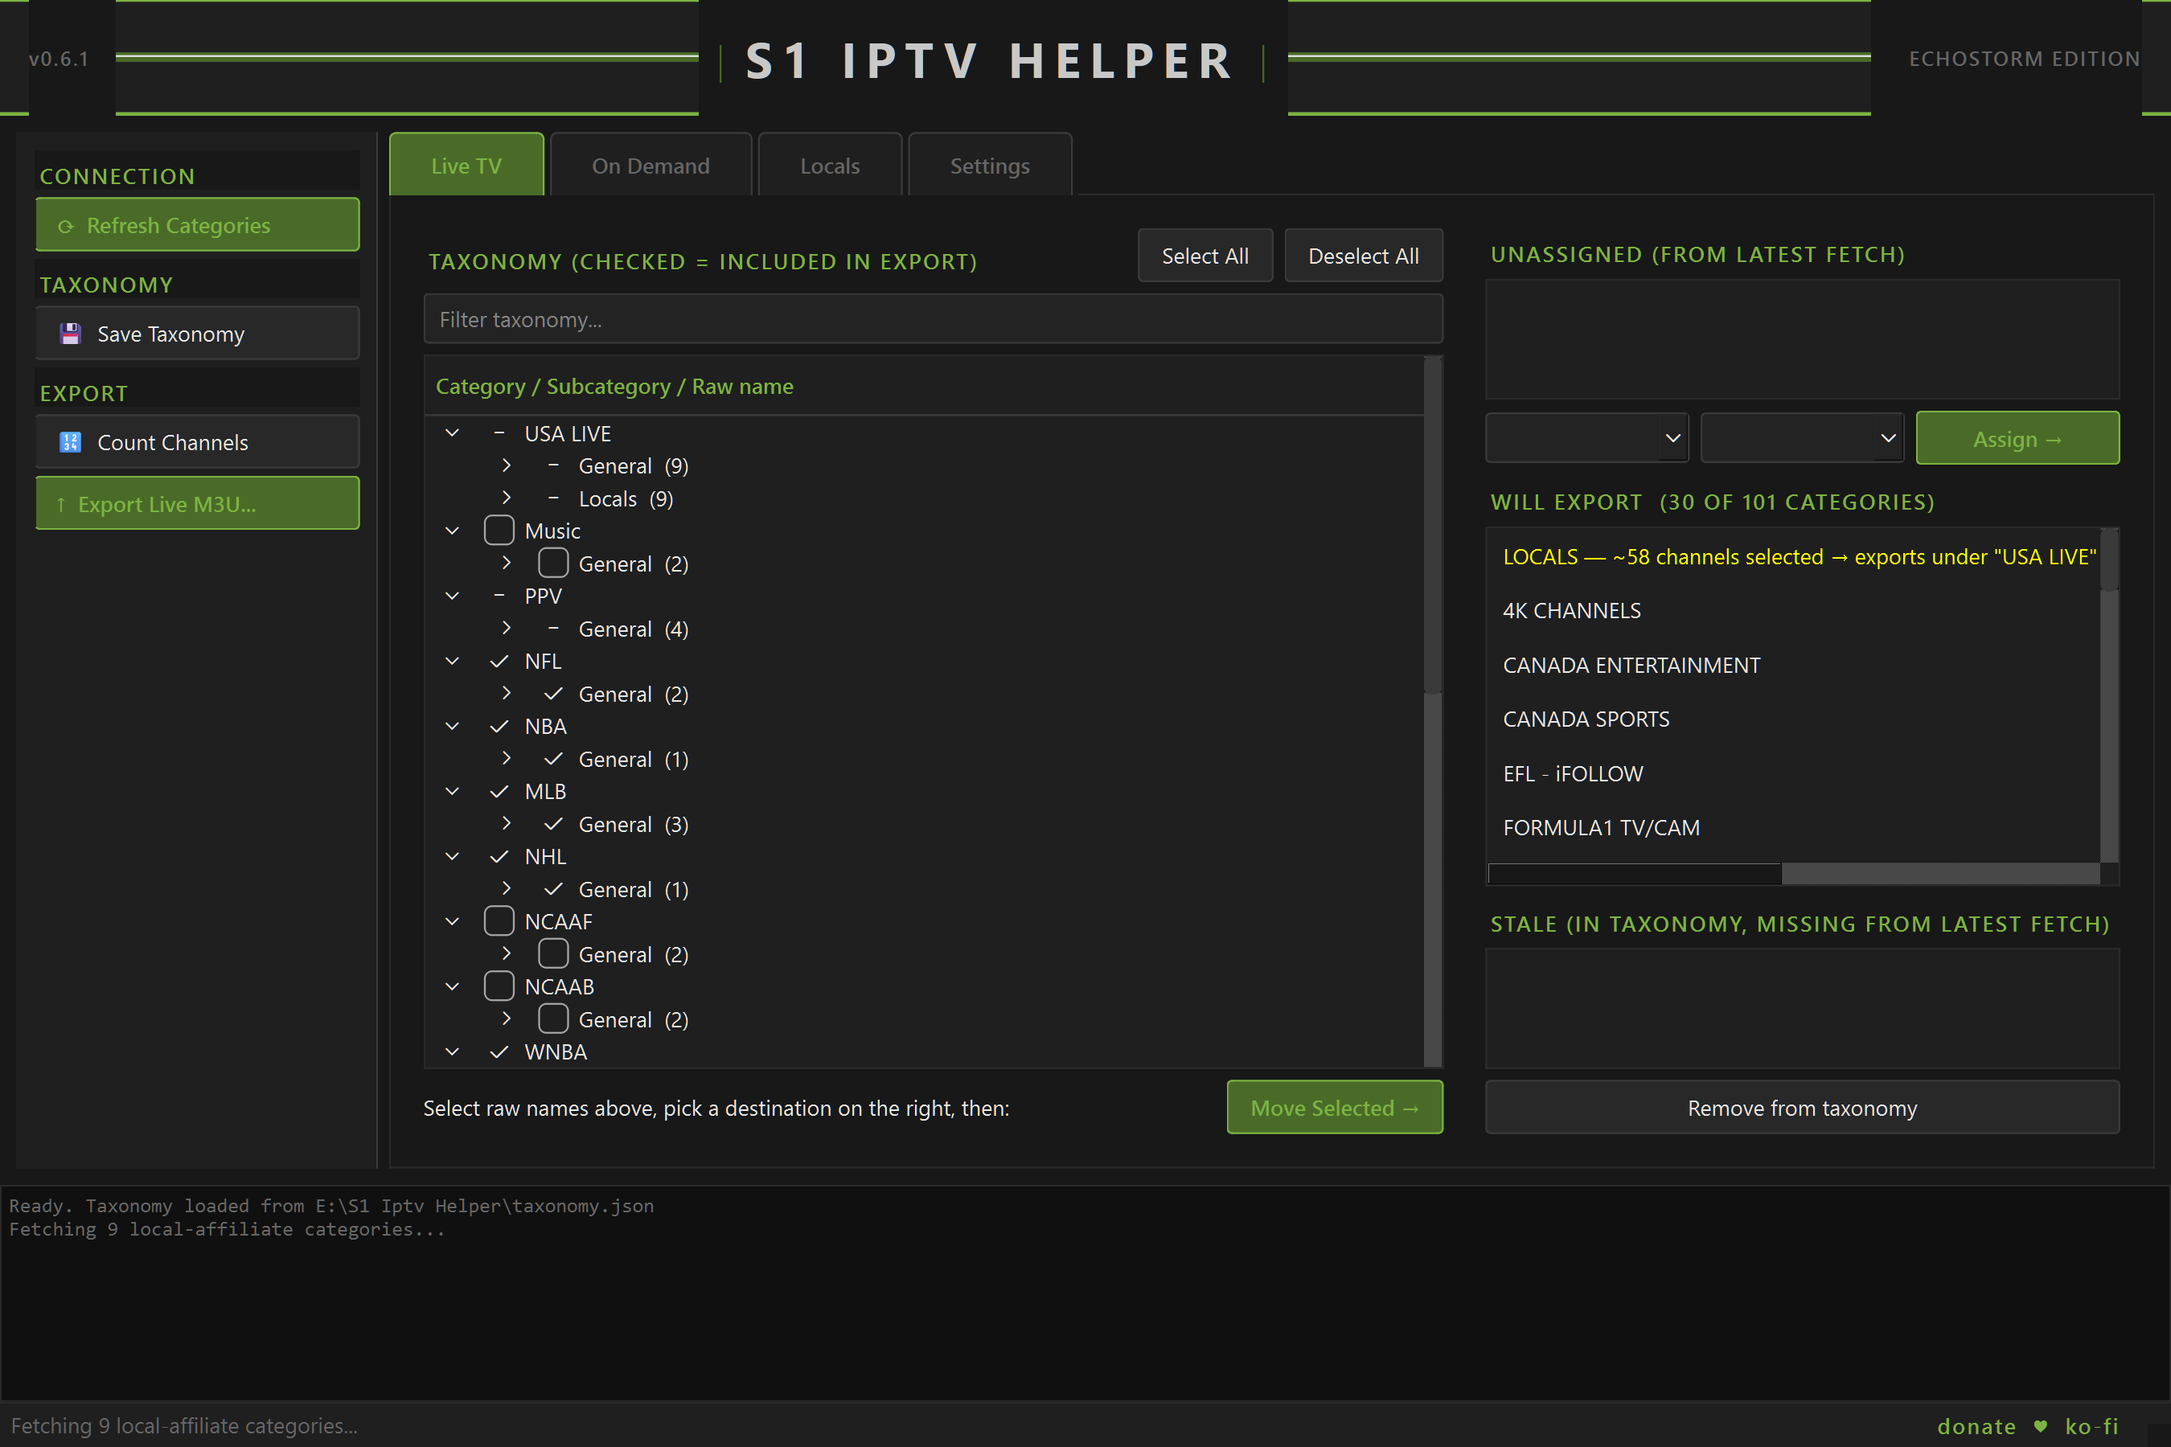
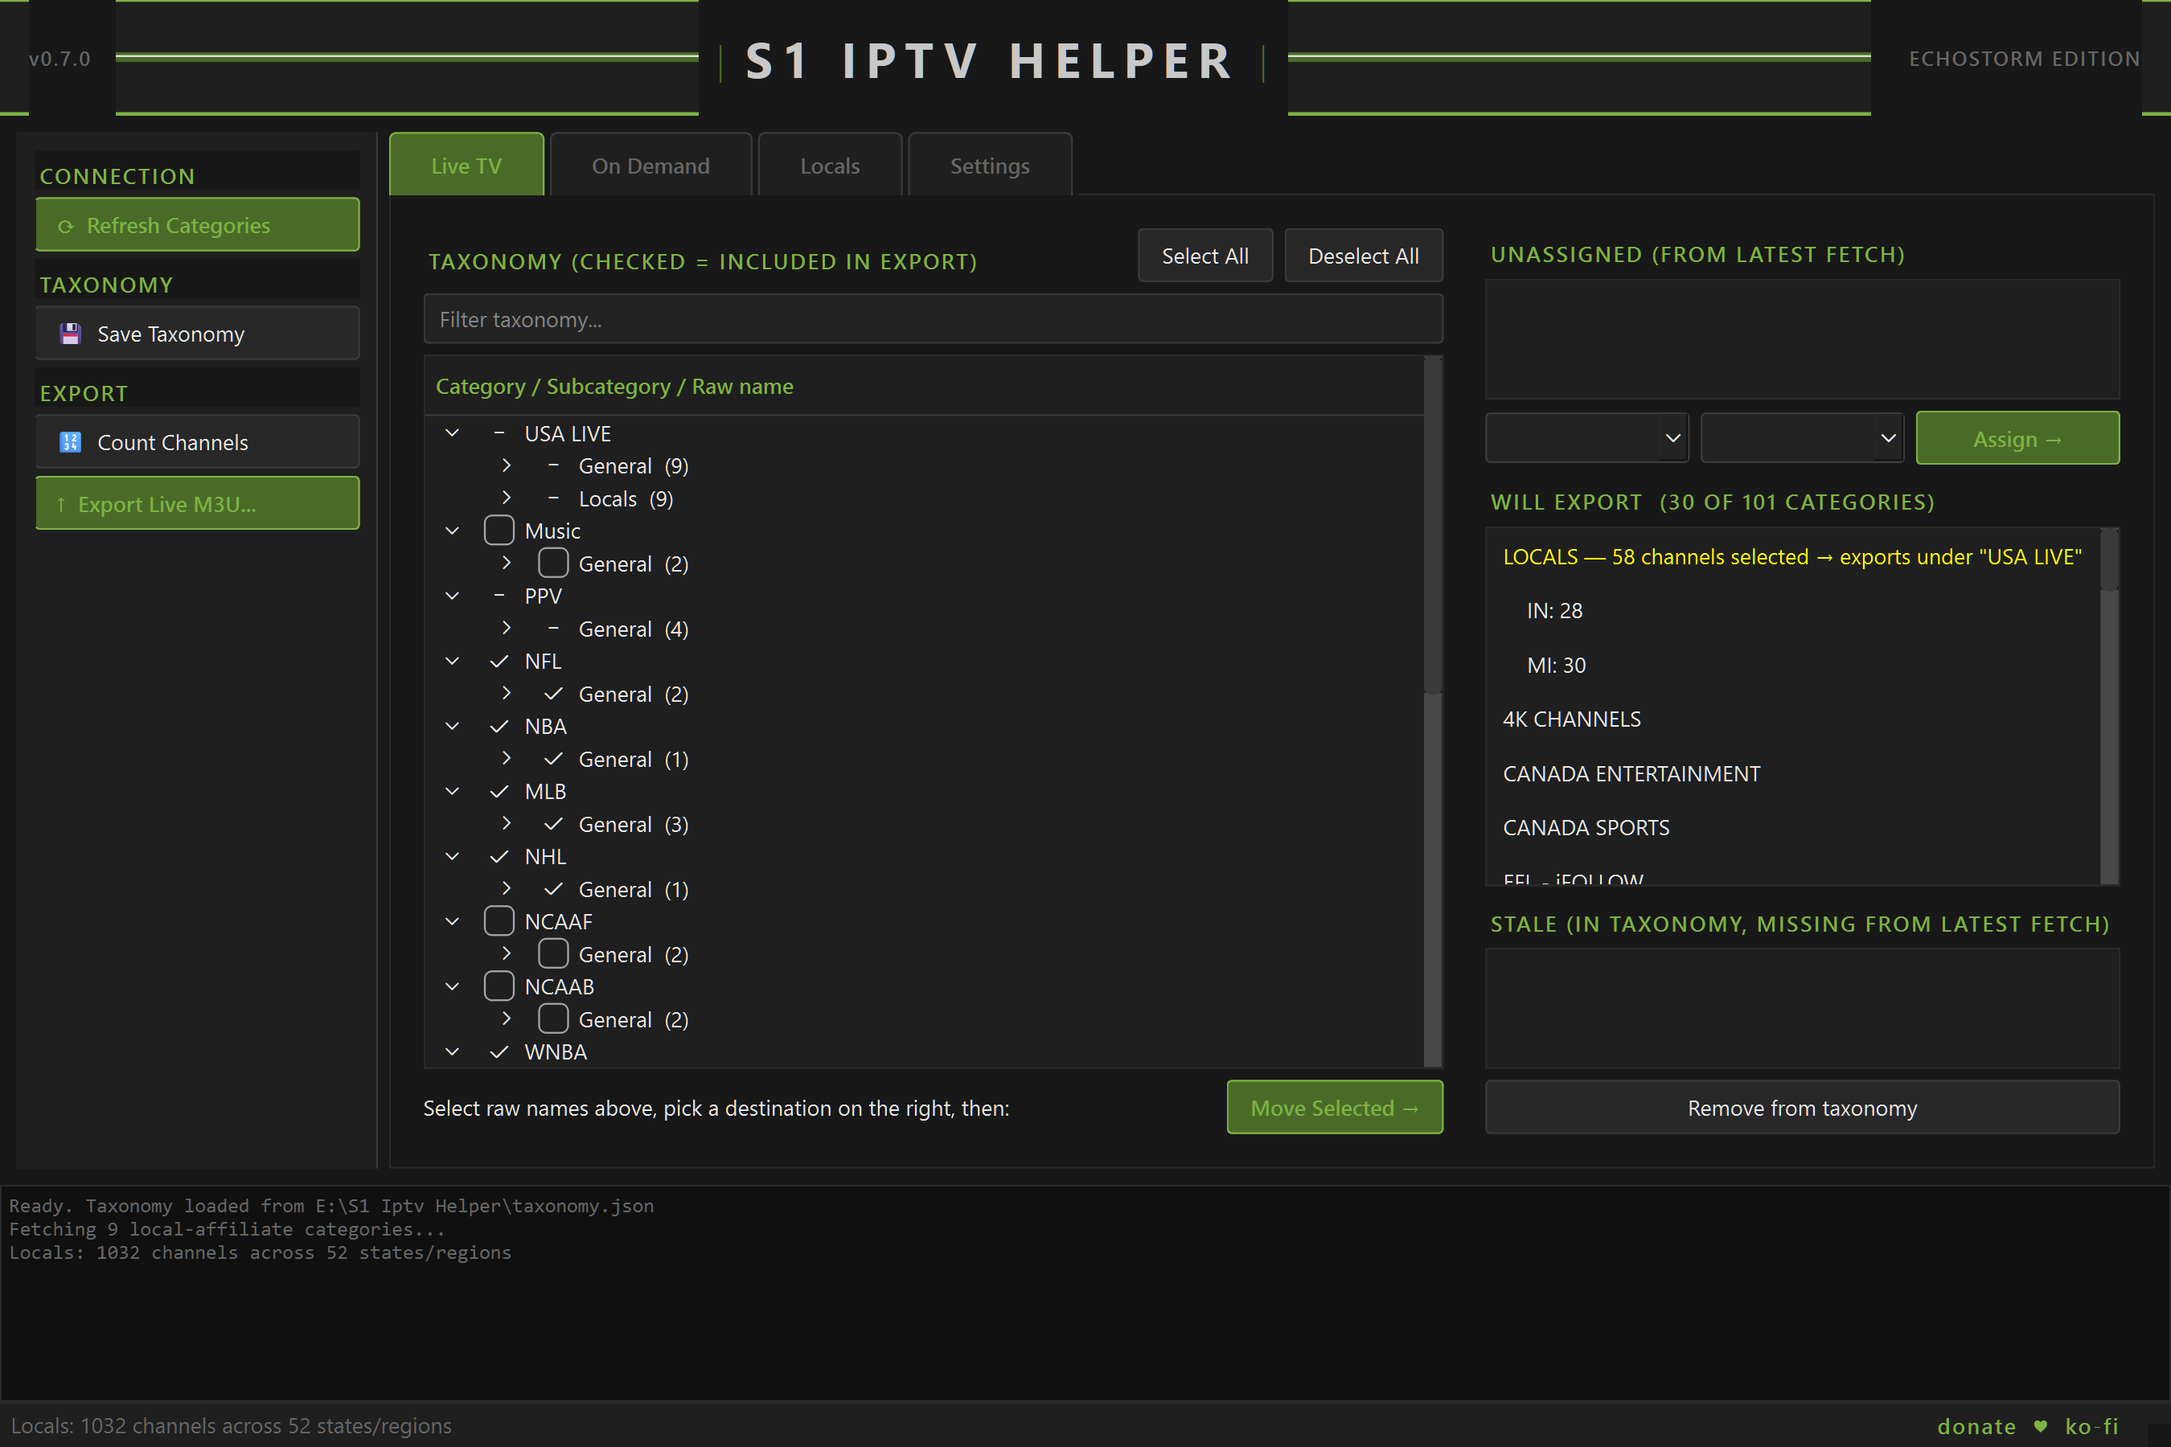
v0.7.0: Windows exe packaging via PyInstaller, first release
Added run_s1_iptv_helper.py (a thin PyInstaller entry point --
s1iptv/main.py can't be that entry point itself since it uses relative
imports that only resolve when imported normally as part of the
package, not executed directly as __main__) and S1IptvHelper.spec
(onedir build, matching EchoAudioConverter.spec's approach), bundling
data/taxonomy.seed.json and the two spinbox arrow PNGs via explicit
datas entries.

Found and fixed a real bug before it ever shipped: every module that
computed "the app's root directory" (category_store.py, export.py,
export_selection.py, locals_data.py, logger.py, xtream_client.py) did
it independently via __file__-relative resolution. Correct from
source, but in a frozen build __file__ resolves inside PyInstaller's
_internal\ extraction folder, not next to the real .exe -- personal
data (config.json, taxonomy.json, the log, backups) would have landed
in _internal\ instead of next to the exe where a user would look for
it. Caught by actually building and running the exe and checking where
the files landed, not by reasoning about the code alone. Fixed with
one shared s1iptv/paths.py::app_root() (checks sys.frozen/
sys.executable), replacing all 6 independent copies -- matches Echo
Audio Converter's own core/paths.py, which solves the identical
problem the identical way. Verified end to end.

Also fixed load_config()'s "no config.json" error message, which told
every reader to copy config.example.json -- true from source, useless
[…]

diff --git a/tests/test_paths.py b/tests/test_paths.py
@@ -1,0 +1,45 @@
+# test_paths.py -- app_root()'s source-vs-frozen resolution, the fix for
+# a real PyInstaller gotcha: __file__-based resolution lands inside the
+# _internal/ extraction folder in a frozen build, not next to the real
+# .exe, but sys.executable does sit next to it.
+
+import os
+import sys
+import unittest
+
+from _helpers import app  # noqa: F401
+
+from s1iptv import paths
+
+
+class TestAppRoot(unittest.TestCase):
+    def test_not_frozen_resolves_to_repo_root(self):
+        # sys.frozen is normally just absent (not False) when running from
+        # source -- getattr(..., False) covers both cases.
+        self.assertFalse(getattr(sys, 'frozen', False))
+        root = paths.app_root()
+        # Repo root is the parent of the s1iptv/ package directory.
+        expected = os.path.dirname(os.path.dirname(os.path.abspath(paths.__file__)))
+        self.assertEqual(root, expected)
+        # Sanity check it's actually the repo root, not some unrelated path.
+        self.assertTrue(os.path.isdir(os.path.join(root, 's1iptv')))
+
+    def test_frozen_resolves_next_to_executable(self):
+        original_frozen = getattr(sys, 'frozen', None)
+        original_had_frozen = hasattr(sys, 'frozen')
+        original_executable = sys.executable
+        try:
+            sys.frozen = True
+            sys.executable = r'C:\Program Files\S1IptvHelper\S1IptvHelper.exe'
+            root = paths.app_root()
+            self.assertEqual(root, r'C:\Program Files\S1IptvHelper')
+        finally:
+            if original_had_frozen:
+                sys.frozen = original_frozen
+            else:
+                del sys.frozen
+            sys.executable = original_executable
+
+
+if __name__ == '__main__':
+    unittest.main()

diff --git a/s1iptv/paths.py b/s1iptv/paths.py
@@ -1,0 +1,28 @@
+"""
+Resolves the app's "root" directory -- where personal data files
+(config.json, taxonomy.json, export/locals selection JSON, the log file,
+taxonomy backups) live.
+
+Every one of those previously computed this independently as
+`os.path.dirname(os.path.dirname(os.path.abspath(__file__)))` -- the
+parent of the s1iptv/ package directory. That's correct when running from
+source, but breaks under a PyInstaller frozen build: __file__ then points
+somewhere inside the `_internal/` extraction folder PyInstaller creates,
+not next to the actual .exe. `sys.executable` is what actually sits next
+to the exe in a frozen build. Matches Echo Audio Converter's
+`core/paths.py`, which solves the identical problem the identical way.
+
+Deliberately NOT used by theme.py's bundled asset paths (spinbox arrow
+icons) -- those live inside the package and get bundled into
+`_internal/s1iptv/assets/` either way, so __file__-relative resolution is
+correct for them and shouldn't route through this.
+"""
+
+import os
+import sys
+
+
+def app_root():
+    if getattr(sys, 'frozen', False):
+        return os.path.dirname(sys.executable)
+    return os.path.dirname(os.path.dirname(os.path.abspath(__file__)))

diff --git a/s1iptv/xtream_client.py b/s1iptv/xtream_client.py
@@ -13,7 +13,9 @@ from urllib.parse import urlencode
 
 import requests
 
-CONFIG_PATH = os.path.join(os.path.dirname(os.path.dirname(os.path.abspath(__file__))), 'config.json')
+from .paths import app_root
+
+CONFIG_PATH = os.path.join(app_root(), 'config.json')
 
 MAX_RETRIES = 3
 RETRY_BACKOFF_BASE = 1.0  # seconds; doubles each retry (1s, 2s, ...)
@@ -32,8 +34,9 @@ class NetworkError(RuntimeError):
 def load_config(path=CONFIG_PATH):
     if not os.path.exists(path):
         raise ConfigError(
-            f"Missing {path}. Copy config.example.json to config.json and "
-            f"fill in your IPTV username/password."
+            f"Missing {path}. Enter your IPTV server/username/password in the "
+            f"Settings tab and click Save (or, running from source, copy "
+            f"config.example.json to config.json)."
         )
     with open(path, 'r', encoding='utf-8') as f:
         cfg = json.load(f)

diff --git a/s1iptv/locals_data.py b/s1iptv/locals_data.py
@@ -11,6 +11,8 @@ state grouping is done by parsing the channel NAME, never the category name.
 import json
 import os
 
+from .paths import app_root
+
 US_STATE_CODES = {
     'AL', 'AK', 'AZ', 'AR', 'CA', 'CO', 'CT', 'DE', 'FL', 'GA', 'HI', 'ID',
     'IL', 'IN', 'IA', 'KS', 'KY', 'LA', 'ME', 'MD', 'MA', 'MI', 'MN', 'MS',
@@ -42,8 +44,7 @@ OTHER_BUCKET = 'OTHER'
 # LocalsSelectionStore.default_states is the actual source of truth.
 FALLBACK_DEFAULT_STATES = {'IN', 'MI'}
 
-APP_DIR = os.path.dirname(os.path.abspath(__file__))
-ROOT_DIR = os.path.dirname(APP_DIR)
+ROOT_DIR = app_root()
 DEFAULT_SELECTION_PATH = os.path.join(ROOT_DIR, 'locals_selection.json')
 
 

diff --git a/run_s1_iptv_helper.py b/run_s1_iptv_helper.py
@@ -1,0 +1,15 @@
+"""
+PyInstaller entry point.
+
+Not launched directly during normal development (that's `launch.bat` /
+`python -m s1iptv.main`) -- this exists only because a script with relative
+imports (s1iptv/main.py uses `from .theme import ...` etc.) can't be run
+directly by Python or by PyInstaller's bootloader as __main__; a normal
+absolute import of the package resolves those relative imports correctly,
+a direct execution of the file inside the package does not.
+"""
+
+from s1iptv.main import main
+
+if __name__ == '__main__':
+    main()

diff --git a/s1iptv/category_store.py b/s1iptv/category_store.py
@@ -24,8 +24,12 @@ import json
 import os
 import shutil
 
+from .paths import app_root
+
+# APP_DIR stays __file__-relative (not app_root()) -- data/taxonomy.seed.json
+# is bundled, read-only package data, not a personal file next to the exe.
 APP_DIR = os.path.dirname(os.path.abspath(__file__))
-ROOT_DIR = os.path.dirname(APP_DIR)
+ROOT_DIR = app_root()
 SEED_PATH = os.path.join(APP_DIR, 'data', 'taxonomy.seed.json')
 DEFAULT_TAXONOMY_PATH = os.path.join(ROOT_DIR, 'taxonomy.json')
 BACKUP_DIR = os.path.join(ROOT_DIR, 'backups')

diff --git a/s1iptv/export.py b/s1iptv/export.py
@@ -32,9 +32,10 @@ import re
 from .locals_data import (
     find_locals_raw_categories, fetch_locals, is_locals_subcategory, LOCALS_OWN_CATEGORY_NAME,
 )
+from .paths import app_root
 
 KODI_IPTV_DEFAULT_DIR = os.path.expandvars(r'%APPDATA%\Kodi\custom\IPTV')
-_APP_ROOT = os.path.dirname(os.path.dirname(os.path.abspath(__file__)))
+_APP_ROOT = app_root()
 
 # Default number of trailing blank slots to keep past the last real event in
 # a category, so an event scheduled between now and the next export already

diff --git a/s1iptv/main_window.py b/s1iptv/main_window.py
@@ -23,7 +23,7 @@ from .logger import get_logger
 from .settings_tab import SettingsTab
 from .xtream_client import XtreamClient, ConfigError, NetworkError, load_config_or_blank, save_config
 
-APP_VERSION = "0.6.1"
+APP_VERSION = "0.7.0"
 
 # Same Ko-fi page already used by the sibling apps (Echo Audio Converter,
 # TorBox Manager EchoStorm Edition) -- see their donate buttons.

diff --git a/s1iptv/export_selection.py b/s1iptv/export_selection.py
@@ -12,8 +12,9 @@ they haven't excluded anything yet.
 import json
 import os
 
-APP_DIR = os.path.dirname(os.path.abspath(__file__))
-ROOT_DIR = os.path.dirname(APP_DIR)
+from .paths import app_root
+
+ROOT_DIR = app_root()
 DEFAULT_PATH = os.path.join(ROOT_DIR, 'export_selection.json')
 
 CONTENT_TYPES = ('live', 'on_demand')

diff --git a/s1iptv/logger.py b/s1iptv/logger.py
@@ -7,8 +7,9 @@ file at the repo root, overwritten fresh each run.
 import logging
 import os
 
-APP_DIR = os.path.dirname(os.path.abspath(__file__))
-ROOT_DIR = os.path.dirname(APP_DIR)
+from .paths import app_root
+
+ROOT_DIR = app_root()
 LOG_PATH = os.path.join(ROOT_DIR, 'S1_IPTV_Helper_Log.txt')
 
 _logger = None

diff --git a/docs/ROADMAP.md b/docs/ROADMAP.md
@@ -223,10 +223,54 @@ gitignored `config.json`.
 Version bumped 0.6.0 -> 0.6.1. Pushed to GitHub as a public repo,
 `s1-iptv-helper`.
 
+README.md trimmed to public-facing content right after -- moved the
+personal migration history ("Why this exists") and sibling-app branding
+details out of the hero section; a Features list replaced the "Status"
+progress-report framing.
+
+### Packaging + first release (2026-09-07)
+
+Added Windows exe packaging via PyInstaller, matching
+`EchoAudioConverter.spec`'s onedir approach:
+- `run_s1_iptv_helper.py` -- a thin entry point PyInstaller can execute
+  directly. `s1iptv/main.py` itself can't be that entry point: it uses
+  relative imports (`from .theme import ...`), which only resolve when the
+  module is imported normally as part of the package, not when executed
+  directly as `__main__` (true for both plain Python and PyInstaller's
+  bootloader).
+- `S1IptvHelper.spec` -- onedir build, bundles `data/taxonomy.seed.json`
+  and the two spinbox arrow PNGs via explicit `datas` entries (PyInstaller
+  can't discover non-Python files referenced only by a file path, not an
+  import).
+- **Found and fixed a real bug before it ever shipped**: every module that
+  computed "the app's root directory" (`category_store.py`,
+  `export.py`, `export_selection.py`, `locals_data.py`, `logger.py`,
+  `xtream_client.py`) did it independently via
+  `os.path.dirname(os.path.dirname(os.path.abspath(__file__)))`. That's
+  correct from source, but in a frozen build `__file__` resolves inside
+  PyInstaller's `_internal\` extraction folder, not next to the real
+  `.exe` -- so personal data (`config.json`, `taxonomy.json`, the log,
+  backups) would have been written into `_internal\` instead of sitting
+  next to the exe where a user would look for it. Caught by actually
+  building and running the exe, then checking where the files landed --
+  not by reasoning about the code alone. Fixed with one shared
+  `s1iptv/paths.py::app_root()` (checks `sys.frozen`/`sys.executable`),
+  replacing all 6 independent copies -- matches Echo Audio Converter's own
+  `core/paths.py`, which solves the identical problem the identical way.
+  Verified end to end: built the exe, ran it, confirmed `taxonomy.json` /
+  the log / `backups/` all landed next to `S1IptvHelper.exe`, not in
+  `_internal\`.
+- Also fixed `load_config()`'s "no config.json" error message, which told
+  every reader to "copy config.example.json" -- true from source, useless
+  advice for an exe-only user with no source checkout. Now points at the
+  Settings tab first.
+- README: added Download (points at the GitHub Releases page) and
+  Building the EXE sections.
+
+Version bumped 0.6.1 -> 0.7.0 -- first packaged release. Tagged and
+published as a GitHub Release with `S1IptvHelper-v0.7.0-win64.zip`
+attached. Repo topics added for discoverability.
+
 ## Later, can wait
 
-- Packaging: PyInstaller `.spec` + `launch.bat`-driven venv bootstrap,
-  matching the sibling apps, once the feature set stabilizes.
-- Decide on a remote (private GitHub repo) once the app is far enough
-  along to be worth pushing — local-only on E: for now, single point of
-  failure if that drive has a problem.
+(nothing currently)

diff --git a/README.md b/README.md
@@ -48,7 +48,14 @@ specifically.
 |---|---|
 | ![Locals tab](docs/screenshots/locals-tab.png) | ![Settings tab](docs/screenshots/settings-tab.png) |
 
-## Setup
+## Download
+
+Prebuilt Windows binary: see the [Releases page](../../releases/latest) —
+download `S1IptvHelper-vX.Y.Z-win64.zip`, extract it anywhere, and run
+`S1IptvHelper.exe`. No Python install required. Enter your provider's
+server/username/password in the Settings tab on first launch.
+
+## Running from source
 
 1. Install Python 3.10+.
 2. Copy `config.example.json` to `config.json` and fill in your IPTV
@@ -58,6 +65,23 @@ specifically.
 
 `config.json` is gitignored — it holds your account's plaintext credentials
 and is never committed.
+
+## Building the EXE
+
+A standalone build (no Python install required to run it) via
+[PyInstaller](https://pyinstaller.org/), configured in `S1IptvHelper.spec`:
+
+```bash
+venv\Scripts\pip install pyinstaller
+venv\Scripts\pyinstaller S1IptvHelper.spec --clean
+```
+
+Output lands in `dist\S1IptvHelper\` — that whole folder is the
+distributable (onedir build: `S1IptvHelper.exe` + a `_internal\` folder of
+PyQt6/Python runtime files next to it). Zip the folder to hand it to
+someone; there's nothing else to install. Personal data files
+(`config.json`, `taxonomy.json`, the log, backups) are written next to the
+`.exe`, not inside `_internal\` — see `s1iptv/paths.py`.
 
 ## Testing
 
@@ -71,13 +95,16 @@ Offscreen PyQt6 `unittest` tests, no extra dependency — see
 ## Project layout
 
 ```
-s1iptv/             application package
-  main.py           entry point
-  theme.py          shared QSS (dark/green theme)
-  xtream_client.py  Xtream Codes API client (live + VOD categories/streams)
-  category_store.py category -> subcategory taxonomy model, JSON-backed
-  main_window.py    main window / UI
-docs/                design & maintenance documentation
-config.example.json  credential template (tracked)
-config.json           real credentials (gitignored)
+s1iptv/                  application package
+  main.py                entry point
+  paths.py               resolves personal-data paths (source vs. frozen exe)
+  theme.py                shared QSS (dark/green theme)
+  xtream_client.py        Xtream Codes API client (live + VOD categories/streams)
+  category_store.py       category -> subcategory taxonomy model, JSON-backed
+  main_window.py          main window / UI
+run_s1_iptv_helper.py     PyInstaller entry point (see Building the EXE)
+S1IptvHelper.spec         PyInstaller build config
+docs/                     design & maintenance documentation
+config.example.json       credential template (tracked)
+config.json               real credentials (gitignored)
 ```
